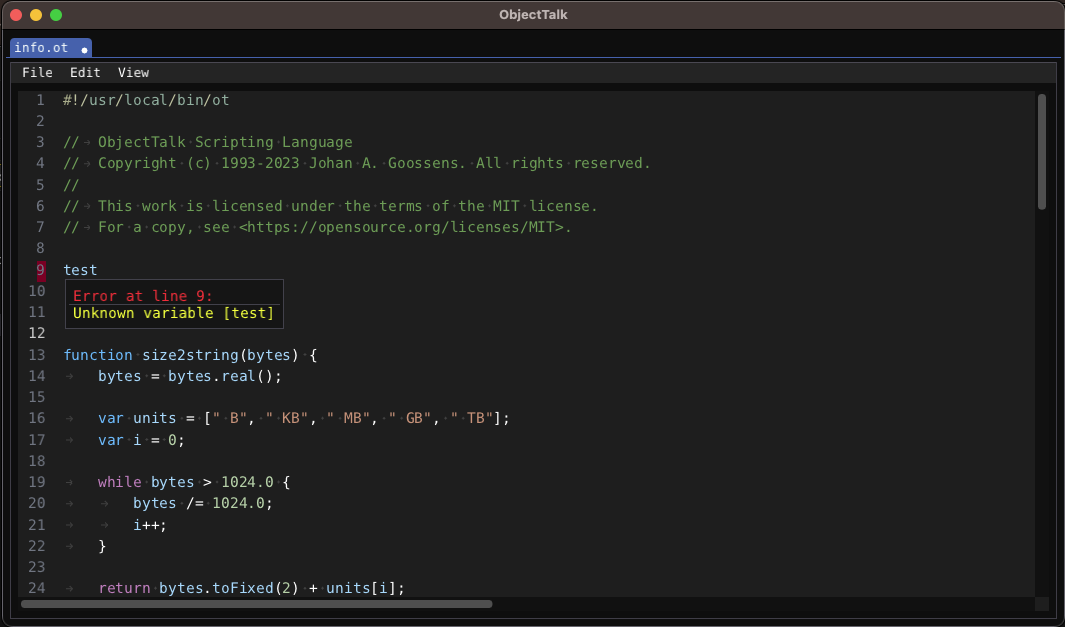
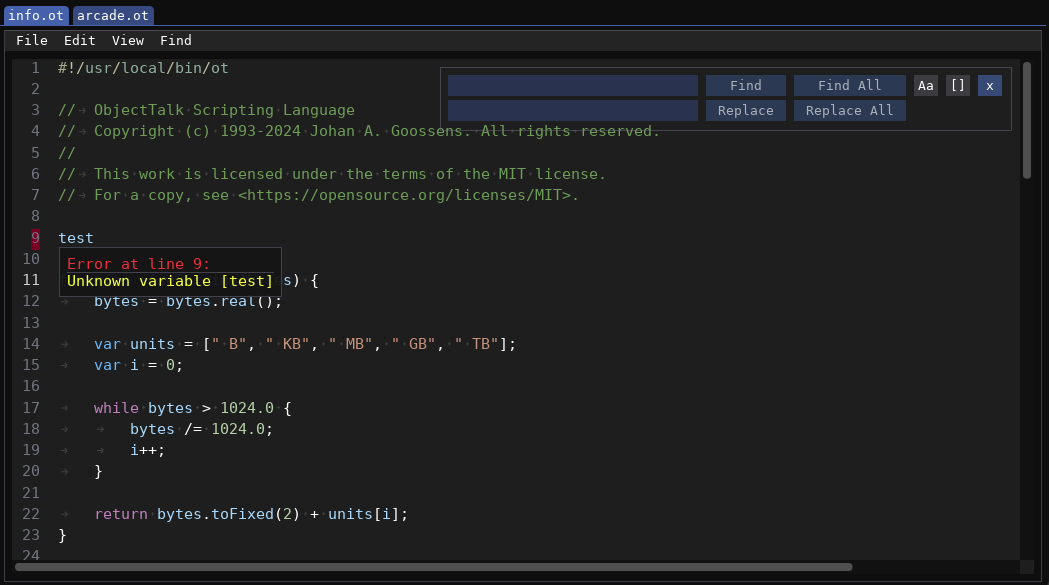
Added support for whole word search

diff --git a/TextEditor.cpp b/TextEditor.cpp
@@ -76,22 +76,22 @@ void TextEditor::SelectRegion(int aStartLine, int aStartChar, int aEndLine, int 
 	SetSelection(aStartLine, aStartChar, aEndLine, aEndChar);
 }
 
-void TextEditor::SelectNextOccurrenceOf(const char* aText, int aTextSize, bool aCaseSensitive)
+void TextEditor::SelectNextOccurrenceOf(const char* aText, int aTextSize, bool aCaseSensitive, bool aWholeWord)
 {
 	ClearSelections();
 	ClearExtraCursors();
-	SelectNextOccurrenceOf(aText, aTextSize, -1, aCaseSensitive);
+	SelectNextOccurrenceOf(aText, aTextSize, -1, aCaseSensitive, aWholeWord);
 }
 
-void TextEditor::SelectAllOccurrencesOf(const char* aText, int aTextSize, bool aCaseSensitive)
+void TextEditor::SelectAllOccurrencesOf(const char* aText, int aTextSize, bool aCaseSensitive, bool aWholeWord)
 {
 	ClearSelections();
 	ClearExtraCursors();
-	SelectNextOccurrenceOf(aText, aTextSize, -1, aCaseSensitive);
+	SelectNextOccurrenceOf(aText, aTextSize, -1, aCaseSensitive, aWholeWord);
 	Coordinates startPos = mState.mCursors[mState.GetLastAddedCursorIndex()].mInteractiveEnd;
 	while (true)
 	{
-		AddCursorForNextOccurrence(aCaseSensitive);
+		AddCursorForNextOccurrence(aCaseSensitive, aWholeWord);
 		Coordinates lastAddedPos = mState.mCursors[mState.GetLastAddedCursorIndex()].mInteractiveEnd;
 		if (lastAddedPos == startPos)
 			break;
@@ -1254,17 +1254,17 @@ void TextEditor::SetSelection(int aStartLine, int aStartChar, int aEndLine, int 
 	SetSelection(startCoords, endCoords, aCursor);
 }
 
-void TextEditor::SelectNextOccurrenceOf(const char* aText, int aTextSize, int aCursor, bool aCaseSensitive)
+void TextEditor::SelectNextOccurrenceOf(const char* aText, int aTextSize, int aCursor, bool aCaseSensitive, bool aWholeWord)
 {
 	if (aCursor == -1)
 		aCursor = mState.mCurrentCursor;
 	Coordinates nextStart, nextEnd;
-	FindNextOccurrence(aText, aTextSize, mState.mCursors[aCursor].mInteractiveEnd, nextStart, nextEnd, aCaseSensitive);
+	FindNextOccurrence(aText, aTextSize, mState.mCursors[aCursor].mInteractiveEnd, nextStart, nextEnd, aCaseSensitive, aWholeWord);
 	SetSelection(nextStart, nextEnd, aCursor);
 	EnsureCursorVisible(aCursor, true);
 }
 
-void TextEditor::AddCursorForNextOccurrence(bool aCaseSensitive)
+void TextEditor::AddCursorForNextOccurrence(bool aCaseSensitive, bool aWholeWord)
 {
 	const Cursor& currentCursor = mState.mCursors[mState.GetLastAddedCursorIndex()];
 	if (currentCursor.GetSelectionStart() == currentCursor.GetSelectionEnd())
@@ -1272,7 +1272,7 @@ void TextEditor::AddCursorForNextOccurrence(bool aCaseSensitive)
 
 	std::string selectionText = GetText(currentCursor.GetSelectionStart(), currentCursor.GetSelectionEnd());
 	Coordinates nextStart, nextEnd;
-	if (!FindNextOccurrence(selectionText.c_str(), int(selectionText.length()), currentCursor.GetSelectionEnd(), nextStart, nextEnd, aCaseSensitive))
+	if (!FindNextOccurrence(selectionText.c_str(), int(selectionText.length()), currentCursor.GetSelectionEnd(), nextStart, nextEnd, aCaseSensitive, aWholeWord))
 		return;
 
 	mState.AddCursor();
@@ -1282,7 +1282,7 @@ void TextEditor::AddCursorForNextOccurrence(bool aCaseSensitive)
 	EnsureCursorVisible(-1, true);
 }
 
-bool TextEditor::FindNextOccurrence(const char* aText, int aTextSize, const Coordinates& aFrom, Coordinates& outStart, Coordinates& outEnd, bool aCaseSensitive)
+bool TextEditor::FindNextOccurrence(const char* aText, int aTextSize, const Coordinates& aFrom, Coordinates& outStart, Coordinates& outEnd, bool aCaseSensitive, bool aWholeWord)
 {
 	assert(aTextSize > 0);
 	bool fmatches = false;
@@ -1294,7 +1294,6 @@ bool TextEditor::FindNextOccurrence(const char* aText, int aTextSize, const Coor
 
 	while (true)
 	{
-		bool matches;
 		{ // match function
 			int lineOffset = 0;
 			int currentCharIndex = findex;
@@ -1323,12 +1322,20 @@ bool TextEditor::FindNextOccurrence(const char* aText, int aTextSize, const Coor
 						currentCharIndex++;
 				}
 			}
-			matches = i == aTextSize;
-			if (matches)
+			if (i == aTextSize)
 			{
-				outStart = { fline, GetCharacterColumn(fline, findex) };
-				outEnd = { fline + lineOffset, GetCharacterColumn(fline + lineOffset, currentCharIndex) };
-				return true;
+				Coordinates start = { fline, GetCharacterColumn(fline, findex) };
+				Coordinates end = { fline + lineOffset, GetCharacterColumn(fline + lineOffset, currentCharIndex) };
+
+				if (aTextSize == 4) {
+					int w = 4;
+				}
+				if (!aWholeWord || IsWholeWord(start, end))
+				{
+					outStart = start;
+					outEnd = end;
+					return true;
+				}
 			}
 		}
 
@@ -1812,6 +1819,28 @@ TextEditor::Coordinates TextEditor::FindWordEnd(const Coordinates& aFrom) const
 			break;
 	}
 	return { lineIndex, GetCharacterColumn(aFrom.mLine, charIndex) };
+}
+
+bool TextEditor::IsWholeWord(const Coordinates& aFrom, const Coordinates& aTo) const
+{
+	if (aFrom.mLine >= mLines.size() || aTo.mLine >= mLines.size())
+		return false;
+
+	auto& startLine = mLines[aFrom.mLine];
+	auto charIndex = GetCharacterIndexL(aFrom);
+
+	if (charIndex != 0 && CharIsWordChar(startLine[charIndex - 1].mChar)) {
+		return false;
+	}
+
+	auto& endLine = mLines[aTo.mLine];
+	charIndex = GetCharacterIndexL(aTo);
+
+	if (charIndex != endLine.size() && CharIsWordChar(endLine[charIndex].mChar)) {
+		return false;
+	}
+
+	return true;
 }
 
 int TextEditor::GetCharacterIndexL(const Coordinates& aCoords) const

diff --git a/TextEditor.h b/TextEditor.h
@@ -121,8 +121,8 @@ public:
 	void SelectAll();
 	void SelectLine(int aLine);
 	void SelectRegion(int aStartLine, int aStartChar, int aEndLine, int aEndChar);
-	void SelectNextOccurrenceOf(const char* aText, int aTextSize, bool aCaseSensitive = true);
-	void SelectAllOccurrencesOf(const char* aText, int aTextSize, bool aCaseSensitive = true);
+	void SelectNextOccurrenceOf(const char* aText, int aTextSize, bool aCaseSensitive = true, bool aWholeWord = false);
+	void SelectAllOccurrencesOf(const char* aText, int aTextSize, bool aCaseSensitive = true, bool aWholeWord = false);
 	bool AnyCursorHasSelection() const;
 	bool AllCursorsHaveSelection() const;
 	void ClearExtraCursors();
@@ -360,9 +360,9 @@ private:
 	void SetSelection(Coordinates aStart, Coordinates aEnd, int aCursor = -1);
 	void SetSelection(int aStartLine, int aStartChar, int aEndLine, int aEndChar, int aCursor = -1);
 
-	void SelectNextOccurrenceOf(const char* aText, int aTextSize, int aCursor = -1, bool aCaseSensitive = true);
-	void AddCursorForNextOccurrence(bool aCaseSensitive = true);
-	bool FindNextOccurrence(const char* aText, int aTextSize, const Coordinates& aFrom, Coordinates& outStart, Coordinates& outEnd, bool aCaseSensitive = true);
+	void SelectNextOccurrenceOf(const char* aText, int aTextSize, int aCursor = -1, bool aCaseSensitive = true, bool aWholeWord = false);
+	void AddCursorForNextOccurrence(bool aCaseSensitive = true, bool aWholeWord = false);
+	bool FindNextOccurrence(const char* aText, int aTextSize, const Coordinates& aFrom, Coordinates& outStart, Coordinates& outEnd, bool aCaseSensitive = true, bool aWholeWord = false);
 	bool FindMatchingBracket(int aLine, int aCharIndex, Coordinates& out);
 	void ChangeCurrentLinesIndentation(bool aIncrease);
 	void MoveUpCurrentLines();
@@ -378,6 +378,7 @@ private:
 	Coordinates ScreenPosToCoordinates(const ImVec2& aPosition, bool aInsertionMode = false, bool* isOverLineNumber = nullptr) const;
 	Coordinates FindWordStart(const Coordinates& aFrom) const;
 	Coordinates FindWordEnd(const Coordinates& aFrom) const;
+	bool IsWholeWord(const Coordinates& aFrom, const Coordinates& aTo) const;
 	int GetCharacterIndexL(const Coordinates& aCoordinates) const;
 	int GetCharacterIndexR(const Coordinates& aCoordinates) const;
 	int GetCharacterColumn(int aLine, int aIndex) const;

diff --git a/README.md b/README.md
@@ -1,7 +1,7 @@
 # About this fork
 
 ImGuiTextEdit was originally developed by [Balázs Jákó](https://github.com/BalazsJako/ImGuiColorTextEdit) but he apparently has no
-time at the moment to work the project. In fact, the last update to his repository was in June 2019. As a result, over 200 forks
+time at the moment to work on the project. In fact, the last update to his repository was in June 2019. As a result, over 200 forks
 exist by people who like his work but want to fix bugs and/or add new features.
 
 A recent fork by [Santiago](https://github.com/santaclose/ImGuiColorTextEdit), also known as santaclose, is currently the most
@@ -12,7 +12,7 @@ one by Santiago:
 - Ability to specify custom syntax highlighting for other languages is restored.
 - Ability to have custom palettes is restored.
 - Ability to have error markers is restored.
-- Ability to choose (at compile time) between boost::regex and std::regex (the latter makes this repository dependency free)
+- Ability to choose (at compile time) between boost::regex and std::regex (the latter makes this repository dependency free).
 - Auto complete for paired glyphs (\[, \{, \(, \", \') (can be turned on and off).
 - If auto complete is turned on, accidentally typed closing glyphs are ignored.
 - If auto complete is turned on, selections can be surrounded by paired glyphs.
@@ -20,10 +20,17 @@ one by Santiago:
 - Allow bracket matching to be turned on and off.
 - Improve keyboard shortcuts on MacOS.
 - Allow ImGuiTextEdit instantiation before ImGui context is initialized.
+- Enhanced API to support externalfind/replace functionality.
+- Search also has the option to search for whole words.
 
 Within reason, all efforts are made to stay in sync with Santiago's fork.
 
 ![Screenshot](screenshot.png)
+
+Note: In the screenshot above, the tabs, menubar and floating find/replace window are not part of the text editor.
+They are part of a custom enclosing IDE. By not putting those things in the editor, integrators have maximum
+flexibility to wrap the editor in their context in the way they see fit. The public API to externally implement
+these features is however included.
 
 ## License
 
